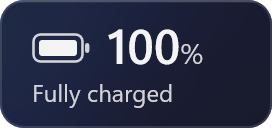
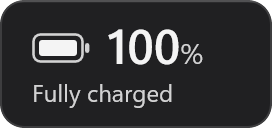
Essentials 2.1.2: uniform previews, explicit Segoe UI Variable weights
Previews render on a flat #2a2a2a backdrop with the dark theme and one accent, cut to the card
shape on transparent (scripts/previews.py). Weight 500 is not an instance of Segoe UI Variable
and resolved to Semibold anyway: use 600 explicitly.

Claude-Session: https://claude.ai/code/session_01TQxuuqy7Zop3gq1fjvXepm

diff --git a/src/drives/index.tsx b/src/drives/index.tsx
@@ -78,7 +78,7 @@ function Drives() {
             {(t) => (
               <>
                 {formatBytes(free(), 0).split(" ")[0]}
-                <span style={{ fontSize: 13, fontWeight: 500, color: t(p().text2) }}>{" " + formatBytes(free(), 0).split(" ")[1] + " free"}</span>
+                <span style={{ fontSize: 13, fontWeight: 600, color: t(p().text2) }}>{" " + formatBytes(free(), 0).split(" ")[1] + " free"}</span>
               </>
             )}
           </Txt>

diff --git a/src/clock/index.tsx b/src/clock/index.tsx
@@ -45,7 +45,7 @@ function Clock() {
           <>
             {time()}
             {h12() ? (
-              <span style={{ fontSize: Math.round(timeSize() * 0.36), fontWeight: 500, color: t(p().text2) }}>
+              <span style={{ fontSize: Math.round(timeSize() * 0.36), fontWeight: 600, color: t(p().text2) }}>
                 {" " + (formatDate(now(), "A") || (now().getHours() < 12 ? "AM" : "PM"))}
               </span>
             ) : null}

diff --git a/src/countdown/index.tsx b/src/countdown/index.tsx
@@ -58,7 +58,7 @@ function Countdown() {
         {(t) => (
           <>
             {big().n}
-            <span style={{ fontSize: Math.round(numSize() * 0.34), fontWeight: 500, color: t(p().text2) }}>
+            <span style={{ fontSize: Math.round(numSize() * 0.34), fontWeight: 600, color: t(p().text2) }}>
               {" " + big().unit + (past() && abs() >= DAY ? " ago" : "")}
             </span>
           </>

diff --git a/scripts/previews.py b/scripts/previews.py
@@ -1,0 +1,94 @@
+# Regenerates every widget preview (src/<widget>/preview.png) the same way, for the gallery, the
+# store and the website, which show previews on one neutral solid tile.
+#
+#   npm run build && py scripts/previews.py [--exe path\to\vitrine.exe] [widget ...]
+#
+# Essentials widgets are acrylic cards. They render over a solid #2a2a2a backdrop, so the glass
+# becomes a flat, even card, and are cut to the card's rounded shape on a transparent
+# background. Every widget uses the dark theme, the same accent and its default size from
+# vitrine.json, at scale 2, with realistic sample content where the default is empty. Weather
+# renders with live data from Open-Meteo.
+
+SETTINGS = {"theme": "dark", "background": "card", "accent": "#60CDFF"}
+EXTRA = {
+    "todo": {"items": "Book flights to Lisbon;[x] Renew passport;Call the dentist;[x] Water the plants;Send the March invoice"},
+    "notes": {"text": "Pick up the cake at 6, Giulia’s party starts at 8"},
+    "countdown": {"title": "Christmas", "date": "2026-12-25"},
+}
+CARD_RADIUS = 12  # RADIUS in src/shared/ui.tsx
+BACKDROP = "#2a2a2a"
+
+
+# ---------------------------------------------------------------------------------------------
+import argparse, json, os, shutil, subprocess, sys, tempfile
+from PIL import Image, ImageDraw
+
+ROOT = os.path.dirname(os.path.dirname(os.path.abspath(__file__)))
+SCALE = 2
+CELL, GAP = 64, 8
+
+
+def find_exe(arg):
+    for c in (arg, os.environ.get("VITRINE_EXE"), shutil.which("vitrine"),
+              os.path.join(os.environ.get("LOCALAPPDATA", ""), "Programs", "Vitrine", "vitrine.exe")):
+        if c and os.path.isfile(c):
+            return c
+    sys.exit("vitrine.exe not found: pass --exe or set VITRINE_EXE")
+
+
+def rounded_mask(size, radius):
+    # 4x supersampled rounded rectangle, for smooth corners.
+    k = 4
+    m = Image.new("L", (size[0] * k, size[1] * k), 0)
+    ImageDraw.Draw(m).rounded_rectangle((0, 0, size[0] * k - 1, size[1] * k - 1), radius=radius * k, fill=255)
+    return m.resize(size, Image.LANCZOS)
+
+
+def main():
+    ap = argparse.ArgumentParser(description="Regenerate every src/<widget>/preview.png (run `npm run build` first).")
+    ap.add_argument("--exe", help="vitrine.exe to render with")
+    ap.add_argument("widgets", nargs="*", help="only these widget ids")
+    a = ap.parse_args()
+    exe = find_exe(a.exe)
+    man = json.load(open(os.path.join(ROOT, "vitrine.json"), encoding="utf-8"))
+    tmp = tempfile.mkdtemp()
+    ok = True
+    for w in man["widgets"]:
+        wid = w["id"]
+        if a.widgets and wid not in a.widgets:
+            continue
+        cw, ch = w["size"]["default"]
+        px = ((cw * CELL + (cw - 1) * GAP) * SCALE, (ch * CELL + (ch - 1) * GAP) * SCALE)
+        settings = {**SETTINGS, **EXTRA.get(wid, {})}
+        raw = os.path.join(tmp, wid + ".png")
+        cmd = [exe, "render", os.path.join(ROOT, "dist"), wid, "--cells", f"{cw}x{ch}", "--scale", str(SCALE),
+               "--settings", json.dumps(settings), "--out", raw]
+        if any(p.startswith("net:") for p in w.get("permissions", [])):
+            cmd += ["--network", "--wait", "2500"]
+        else:
+            cmd += ["--wait", "1500"]
+        if CARD_RADIUS:
+            # A solid neutral backdrop: the acrylic glass becomes a flat, even card.
+            bd = os.path.join(tmp, "backdrop.png")
+            Image.new("RGB", px, BACKDROP).save(bd)
+            cmd += ["--backdrop", bd]
+        for _ in range(3):  # the renderer fails now and then on a busy machine: retry
+            r = subprocess.run(cmd, capture_output=True, text=True)
+            if r.returncode == 0:
+                break
+        if r.returncode != 0:
+            print(wid, "FAILED", r.returncode, r.stdout.strip(), r.stderr.strip())
+            ok = False
+            continue
+        img = Image.open(raw).convert("RGBA")
+        if CARD_RADIUS:
+            alpha = Image.composite(img.getchannel("A"), Image.new("L", img.size, 0), rounded_mask(img.size, CARD_RADIUS * SCALE))
+            img.putalpha(alpha)
+        out = os.path.join(ROOT, w["preview"])
+        img.save(out, optimize=True)
+        print(wid, img.size, "->", os.path.relpath(out, ROOT))
+    sys.exit(0 if ok else 1)
+
+
+if __name__ == "__main__":
+    main()

diff --git a/README.md b/README.md
@@ -29,13 +29,15 @@ and text in the widget settings.
 
 ```sh
 npm install
-npm run pack      # → essentials-2.1.0.vitrine
+npm run pack      # → essentials-2.1.2.vitrine
 ```
 
 `package.json` depends on `github:vitrine-org/sdk#v2.1.0`, which provides `prompt()` for the to-do
 and note text entry.
 
 Preview a widget: `vitrine render dist weather --cells 3x2 --network --out weather.png`.
+
+Regenerate every `src/<widget>/preview.png` after `npm run build` with `py scripts/previews.py` (needs Pillow and `vitrine.exe`): same theme, accent and default size for all widgets, on a transparent background, cut to the card's rounded shape over a flat neutral backdrop, so the gallery, store and website show them alike on a neutral tile.
 
 ## License
 
